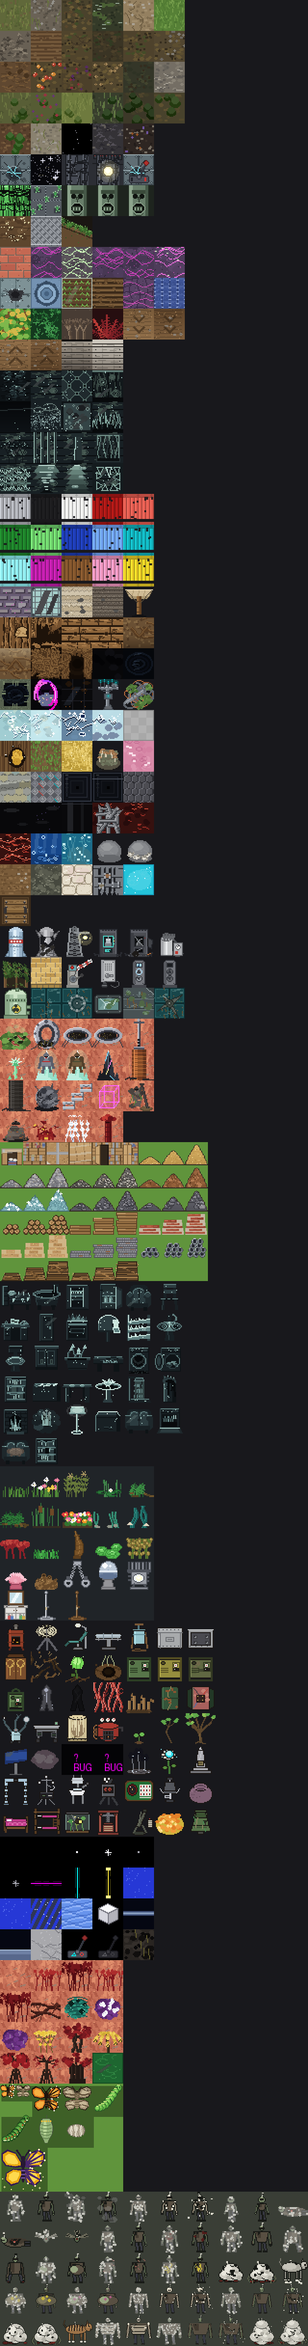
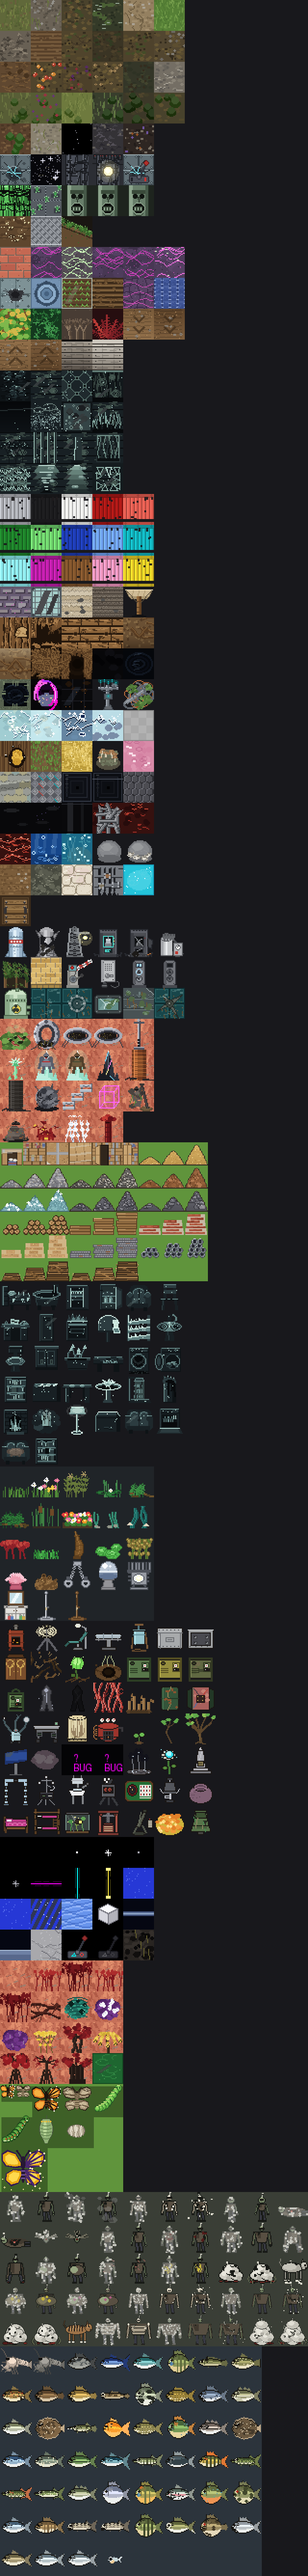
Coverage audit: record for 2g.4 batch 17

diff --git a/coverage-audit/REPORT.md b/coverage-audit/REPORT.md
@@ -510,6 +510,30 @@ verification time because 14 fish-batch folders had already
 landed): 50 direct, no rescues — monsters missing **454 → 404**,
 coverage **66.4%** (799/1,203).
 
+## Created: fish, first half (Phase 2g.4 batch 17, 2026-11-15)
+
+**52 of the 104 missing ids in `fish.json`** (alphabetical first
+half, `mon_crayfish_giant_larva` … `mon_fry_blackfish`): the two
+crayfish, flatfish with both eyes on the eyed side, catfish with
+barbels, sturgeon with scute rows, the gar's needle jaw, chain
+pickerel reticulation, the haddock's black shoulder blotch, the
+rainbow trout's pink band, and the tiny pale fry with its yolk
+sac. `new-tiles/draw_fish_a.py`; `new-tiles/preview_fish_a.png`.
+
+Verified per the 2g.4 gate (parent re-run): **52 materials, all
+`exact`, 0 missing** (156 layers), byte-identical re-run.
+Coverage movement (monster overlay, baseline 404 reproduced):
+52 direct + 1 rescue (`mon_nether_fish`, whose `looks_like`
+chain reaches a drawn fish) — monsters missing **404 → 351**,
+coverage **70.8%** (852/1,203). Placement note: all 52 sit on the
+32×32 sheet per the brief's letter (no entry carries an explicit
+size field); a parent volume census finds exactly three at
+≥75 L resolved volume — `mon_crayfish_mega` (625 L),
+`mon_fish_bluefin_tuna` (250 L), `mon_fish_halibut` (75 L).
+Re-sheeting those three is a placement-only change (coverage is
+unaffected); the fish second half is briefed with volume-based
+placement from the start.
+
 ## Status
 
 Batches are committed locally as they land (butterfly/moth in

diff --git a/coverage-audit/new-tiles/README.md b/coverage-audit/new-tiles/README.md
@@ -26,6 +26,22 @@ All parent re-verified: voxelizer all-`exact`/0 missing,
 byte-identical re-runs, opacity checks clean, previews inspected.
 Furniture and monsters are the remaining drive.
 
+## Monster batch 17: fish, first half (Phase 2g.4, 2026-11-15)
+
+**52 of the 104 missing ids in `fish.json`** (alphabetical first
+half) — crayfish, flatfish, catfish, sturgeon, gar, trout, bass,
+perch, and the fry. Drawn by `draw_fish_a.py` (PIL,
+deterministic), all on the 32×32 sheet; a parent volume census
+names three ≥75 L sprites (`mon_crayfish_mega` 625 L,
+`mon_fish_bluefin_tuna` 250 L, `mon_fish_halibut` 75 L) whose
+re-sheeting would be a placement-only change.
+
+Verified: release voxelizer test-tileset run, **52 materials, all
+`exact`, 0 missing** (156 layers), byte-identical re-run, parent
+re-verified. `preview_fish_a.png` is the contact sheet. Coverage:
+monsters missing **404 → 351** (52 direct + the `mon_nether_fish`
+rescue), coverage **70.8%**.
+
 ## Monster batch 16: the fungal zombies (Phase 2g.4, 2026-11-15)
 
 **All 50 missing ids in the fungus-zombie file** — the dusted /
